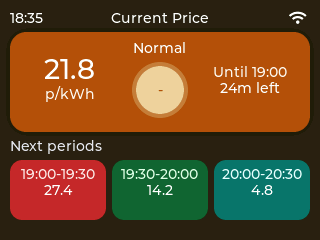
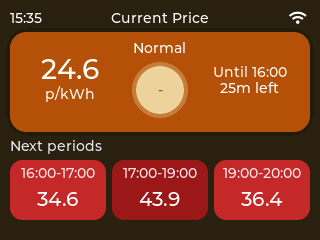
Refine primary preview cards and refresh docs screenshots

diff --git a/main/lv_font_montserrat_20_numeric.c b/main/lv_font_montserrat_20_numeric.c
@@ -1,7 +1,7 @@
 /*******************************************************************************
  * Size: 20 px
  * Bpp: 4
- * Opts: --no-compress --no-prefilter --bpp 4 --size 20 --font managed_components/lvgl__lvgl/scripts/built_in_font/Montserrat-Medium.ttf -r 0x25,0x30-0x39 --format lvgl -o main/lv_font_montserrat_20_numeric.c --force-fast-kern-format
+ * Opts: --no-compress --no-prefilter --bpp 4 --size 20 --font managed_components/lvgl__lvgl/scripts/built_in_font/Montserrat-Medium.ttf -r 0x25,0x2E,0x30-0x39 --format lvgl -o main/lv_font_montserrat_20_numeric.c --force-fast-kern-format
  ******************************************************************************/
 
 #include <lvgl.h>
@@ -34,6 +34,9 @@ static LV_ATTRIBUTE_LARGE_CONST const uint8_t glyph_bitmap[] = {
     0xf2, 0x0, 0x2f, 0x20, 0x6, 0xe0, 0x0, 0x2,
     0xf7, 0x0, 0x0, 0xbb, 0x23, 0xe6, 0x0, 0x0,
     0xcc, 0x0, 0x0, 0x1, 0xaf, 0xe8, 0x0,
+
+    /* U+002E "." */
+    0x7, 0xb2, 0xf, 0xf8, 0xa, 0xe4,
 
     /* U+0030 "0" */
     0x0, 0x1, 0x8d, 0xfe, 0xa3, 0x0, 0x0, 0x2,
@@ -169,33 +172,36 @@ static LV_ATTRIBUTE_LARGE_CONST const uint8_t glyph_bitmap[] = {
 static const lv_font_fmt_txt_glyph_dsc_t glyph_dsc[] = {
     {.bitmap_index = 0, .adv_w = 0, .box_w = 0, .box_h = 0, .ofs_x = 0, .ofs_y = 0} /* id = 0 reserved */,
     {.bitmap_index = 0, .adv_w = 270, .box_w = 17, .box_h = 14, .ofs_x = 0, .ofs_y = 0},
-    {.bitmap_index = 119, .adv_w = 213, .box_w = 13, .box_h = 14, .ofs_x = 0, .ofs_y = 0},
-    {.bitmap_index = 210, .adv_w = 118, .box_w = 6, .box_h = 14, .ofs_x = 0, .ofs_y = 0},
-    {.bitmap_index = 252, .adv_w = 184, .box_w = 11, .box_h = 14, .ofs_x = 0, .ofs_y = 0},
-    {.bitmap_index = 329, .adv_w = 183, .box_w = 11, .box_h = 14, .ofs_x = 0, .ofs_y = 0},
-    {.bitmap_index = 406, .adv_w = 214, .box_w = 14, .box_h = 14, .ofs_x = 0, .ofs_y = 0},
-    {.bitmap_index = 504, .adv_w = 184, .box_w = 11, .box_h = 14, .ofs_x = 0, .ofs_y = 0},
-    {.bitmap_index = 581, .adv_w = 197, .box_w = 12, .box_h = 14, .ofs_x = 0, .ofs_y = 0},
-    {.bitmap_index = 665, .adv_w = 191, .box_w = 12, .box_h = 14, .ofs_x = 0, .ofs_y = 0},
-    {.bitmap_index = 749, .adv_w = 206, .box_w = 12, .box_h = 14, .ofs_x = 0, .ofs_y = 0},
-    {.bitmap_index = 833, .adv_w = 197, .box_w = 12, .box_h = 14, .ofs_x = 0, .ofs_y = 0}
+    {.bitmap_index = 119, .adv_w = 73, .box_w = 4, .box_h = 3, .ofs_x = 0, .ofs_y = 0},
+    {.bitmap_index = 125, .adv_w = 213, .box_w = 13, .box_h = 14, .ofs_x = 0, .ofs_y = 0},
+    {.bitmap_index = 216, .adv_w = 118, .box_w = 6, .box_h = 14, .ofs_x = 0, .ofs_y = 0},
+    {.bitmap_index = 258, .adv_w = 184, .box_w = 11, .box_h = 14, .ofs_x = 0, .ofs_y = 0},
+    {.bitmap_index = 335, .adv_w = 183, .box_w = 11, .box_h = 14, .ofs_x = 0, .ofs_y = 0},
+    {.bitmap_index = 412, .adv_w = 214, .box_w = 14, .box_h = 14, .ofs_x = 0, .ofs_y = 0},
+    {.bitmap_index = 510, .adv_w = 184, .box_w = 11, .box_h = 14, .ofs_x = 0, .ofs_y = 0},
+    {.bitmap_index = 587, .adv_w = 197, .box_w = 12, .box_h = 14, .ofs_x = 0, .ofs_y = 0},
+    {.bitmap_index = 671, .adv_w = 191, .box_w = 12, .box_h = 14, .ofs_x = 0, .ofs_y = 0},
+    {.bitmap_index = 755, .adv_w = 206, .box_w = 12, .box_h = 14, .ofs_x = 0, .ofs_y = 0},
+    {.bitmap_index = 839, .adv_w = 197, .box_w = 12, .box_h = 14, .ofs_x = 0, .ofs_y = 0}
 };
 
 /*---------------------
  *  CHARACTER MAPPING
  *--------------------*/
 
-
+static const uint16_t unicode_list_0[] = {
+    0x0, 0x9
+};
 
 /*Collect the unicode lists and glyph_id offsets*/
 static const lv_font_fmt_txt_cmap_t cmaps[] =
 {
     {
-        .range_start = 37, .range_length = 1, .glyph_id_start = 1,
-        .unicode_list = NULL, .glyph_id_ofs_list = NULL, .list_length = 0, .type = LV_FONT_FMT_TXT_CMAP_FORMAT0_TINY
+        .range_start = 37, .range_length = 10, .glyph_id_start = 1,
+        .unicode_list = unicode_list_0, .glyph_id_ofs_list = NULL, .list_length = 2, .type = LV_FONT_FMT_TXT_CMAP_SPARSE_TINY
     },
     {
-        .range_start = 48, .range_length = 10, .glyph_id_start = 2,
+        .range_start = 48, .range_length = 10, .glyph_id_start = 3,
         .unicode_list = NULL, .glyph_id_ofs_list = NULL, .list_length = 0, .type = LV_FONT_FMT_TXT_CMAP_FORMAT0_TINY
     }
 };
@@ -208,32 +214,34 @@ static const lv_font_fmt_txt_cmap_t cmaps[] =
 /*Map glyph_ids to kern left classes*/
 static const uint8_t kern_left_class_mapping[] =
 {
-    0, 1, 2, 0, 3, 4, 5, 6,
-    7, 8, 9, 2
+    0, 1, 2, 3, 0, 4, 5, 6,
+    7, 8, 9, 10, 3
 };
 
 /*Map glyph_ids to kern right classes*/
 static const uint8_t kern_right_class_mapping[] =
 {
     0, 1, 2, 3, 4, 5, 6, 7,
-    2, 8, 9, 10
+    8, 3, 9, 10, 11
 };
 
 /*Kern values between classes*/
 static const int8_t kern_class_values[] =
 {
-    -39, 0, -6, 3, 3, 11, 6, -5,
-    6, 0, 0, 0, -1, -1, -3, 0,
-    0, -2, 0, 0, 3, -1, 0, 0,
-    0, -6, 0, -1, 0, 0, -3, 0,
-    0, -2, -2, 0, -3, -4, 0, 0,
-    -10, 0, -8, -1, -4, 0, -1, -15,
-    3, -2, -3, 0, 0, -2, -2, 0,
-    -2, -4, 0, 0, -6, 0, 0, 0,
-    0, 0, 0, -2, 0, 0, 1, -6,
-    3, 0, -3, -21, -6, 0, -6, 0,
-    -3, 0, 0, 0, 0, 0, 0, 0,
-    0, 0
+    -39, 10, 0, -6, 3, 3, 11, 6,
+    -5, 6, 0, -20, 0, -4, -4, 3,
+    3, -3, 0, -4, 3, 0, 0, -4,
+    0, -1, -1, -3, 0, 0, -2, 0,
+    0, 3, 3, -1, 0, 0, 0, -6,
+    0, -1, 0, 0, -3, 0, 0, 0,
+    -2, -2, 0, -3, -4, 0, 0, -10,
+    6, 0, -8, -1, -4, 0, -1, -15,
+    3, -2, -3, 0, 0, 0, -2, -2,
+    0, -2, -4, 0, 0, -6, 3, 0,
+    0, 0, 0, 0, 0, -2, 0, 0,
+    1, -17, -6, 3, 0, -3, -21, -6,
+    0, -6, 0, -3, 3, 0, 0, 0,
+    0, 0, 0, 0, 0, 0
 };
 
 
@@ -243,8 +251,8 @@ static const lv_font_fmt_txt_kern_classes_t kern_classes =
     .class_pair_values   = kern_class_values,
     .left_class_mapping  = kern_left_class_mapping,
     .right_class_mapping = kern_right_class_mapping,
-    .left_class_cnt      = 9,
-    .right_class_cnt     = 10,
+    .left_class_cnt      = 10,
+    .right_class_cnt     = 11,
 };
 
 /*--------------------

diff --git a/main/ui_primary.c b/main/ui_primary.c
@@ -284,11 +284,11 @@ static void set_primary_pulse_enabled(ui_router_view_t *view, bool enabled)
     lv_anim_start(&animation);
 }
 
-static void style_preview_card(lv_obj_t *card, lv_obj_t *time_label, lv_obj_t *band_label, lv_obj_t *price_label, tariff_band_t band, bool active)
+static void style_preview_card(lv_obj_t *card, lv_obj_t *time_label, lv_obj_t *band_label, tariff_band_t band, bool active)
 {
     primary_palette_t palette = {0};
 
-    if (card == NULL || time_label == NULL || band_label == NULL || price_label == NULL) {
+    if (card == NULL || time_label == NULL || band_label == NULL) {
         return;
     }
 
@@ -297,10 +297,9 @@ static void style_preview_card(lv_obj_t *card, lv_obj_t *time_label, lv_obj_t *b
     lv_obj_set_style_bg_color(card, active ? palette.hero_bg : lv_color_hex(0x1f2937), 0);
     lv_obj_set_style_text_color(time_label, active ? palette.hero_muted_text : lv_color_hex(0xcbd5e1), 0);
     lv_obj_set_style_text_color(band_label, active ? palette.hero_text : lv_color_white(), 0);
-    lv_obj_set_style_text_color(price_label, active ? palette.hero_muted_text : lv_color_hex(0x94a3b8), 0);
     lv_obj_set_style_text_align(time_label, LV_TEXT_ALIGN_CENTER, 0);
     lv_obj_set_style_text_align(band_label, LV_TEXT_ALIGN_CENTER, 0);
-    lv_obj_set_style_text_font(band_label, &lv_font_montserrat_14, 0);
+    lv_obj_set_style_text_font(band_label, &lv_font_montserrat_20_numeric, 0);
 }
 
 lv_color_t ui_primary_get_band_fill_color(tariff_band_t band)
@@ -327,12 +326,10 @@ static void update_primary_preview(ui_router_view_t *view, uint8_t index, const 
         snprintf(numeric_text, sizeof(numeric_text), "%.1f", (double)preview->representative_price);
         lv_label_set_text(view->primary_preview_time_labels[index], time_text);
         lv_label_set_text(view->primary_preview_band_labels[index], numeric_text);
-        lv_label_set_text(view->primary_preview_price_labels[index], "");
         style_preview_card(
             view->primary_preview_cards[index],
             view->primary_preview_time_labels[index],
             view->primary_preview_band_labels[index],
-            view->primary_preview_price_labels[index],
             preview->band,
             true
         );
@@ -341,12 +338,10 @@ static void update_primary_preview(ui_router_view_t *view, uint8_t index, const 
 
     lv_label_set_text(view->primary_preview_time_labels[index], "Later");
     lv_label_set_text(view->primary_preview_band_labels[index], "--");
-    lv_label_set_text(view->primary_preview_price_labels[index], "");
     style_preview_card(
         view->primary_preview_cards[index],
         view->primary_preview_time_labels[index],
         view->primary_preview_band_labels[index],
-        view->primary_preview_price_labels[index],
         TARIFF_BAND_NORMAL,
         false
     );
@@ -616,17 +611,27 @@ void ui_primary_create(lv_obj_t *tile, ui_router_view_t *view)
         lv_obj_set_style_radius(view->primary_preview_cards[index], 12, 0);
         lv_obj_set_style_border_width(view->primary_preview_cards[index], 0, 0);
         lv_obj_set_style_pad_all(view->primary_preview_cards[index], 5, 0);
-        lv_obj_set_style_pad_row(view->primary_preview_cards[index], 0, 0);
+        lv_obj_set_style_pad_row(view->primary_preview_cards[index], 3, 0);
         lv_obj_set_layout(view->primary_preview_cards[index], LV_LAYOUT_FLEX);
         lv_obj_set_flex_flow(view->primary_preview_cards[index], LV_FLEX_FLOW_COLUMN);
-        lv_obj_set_flex_align(view->primary_preview_cards[index], LV_FLEX_ALIGN_CENTER, LV_FLEX_ALIGN_CENTER, LV_FLEX_ALIGN_CENTER);
+        lv_obj_set_flex_align(view->primary_preview_cards[index], LV_FLEX_ALIGN_START, LV_FLEX_ALIGN_CENTER, LV_FLEX_ALIGN_CENTER);
         lv_obj_clear_flag(view->primary_preview_cards[index], LV_OBJ_FLAG_SCROLLABLE);
 
         view->primary_preview_time_labels[index] = lv_label_create(view->primary_preview_cards[index]);
         lv_obj_set_width(view->primary_preview_time_labels[index], lv_pct(100));
-        view->primary_preview_band_labels[index] = lv_label_create(view->primary_preview_cards[index]);
+
+        view->primary_preview_value_containers[index] = lv_obj_create(view->primary_preview_cards[index]);
+        lv_obj_set_width(view->primary_preview_value_containers[index], lv_pct(100));
+        lv_obj_set_flex_grow(view->primary_preview_value_containers[index], 1);
+        lv_obj_set_style_bg_opa(view->primary_preview_value_containers[index], LV_OPA_TRANSP, 0);
+        lv_obj_set_style_border_width(view->primary_preview_value_containers[index], 0, 0);
+        lv_obj_set_style_pad_all(view->primary_preview_value_containers[index], 0, 0);
+        lv_obj_set_layout(view->primary_preview_value_containers[index], LV_LAYOUT_FLEX);
+        lv_obj_set_flex_flow(view->primary_preview_value_containers[index], LV_FLEX_FLOW_COLUMN);
+        lv_obj_set_flex_align(view->primary_preview_value_containers[index], LV_FLEX_ALIGN_CENTER, LV_FLEX_ALIGN_CENTER, LV_FLEX_ALIGN_CENTER);
+        lv_obj_clear_flag(view->primary_preview_value_containers[index], LV_OBJ_FLAG_SCROLLABLE);
+
+        view->primary_preview_band_labels[index] = lv_label_create(view->primary_preview_value_containers[index]);
         lv_obj_set_width(view->primary_preview_band_labels[index], lv_pct(100));
-        view->primary_preview_price_labels[index] = lv_label_create(view->primary_preview_cards[index]);
-        lv_obj_set_width(view->primary_preview_price_labels[index], lv_pct(100));
     }
 }

diff --git a/main/ui_router_internal.h b/main/ui_router_internal.h
@@ -36,9 +36,9 @@ typedef struct {
     lv_obj_t *primary_change_label;
     lv_obj_t *primary_section_label;
     lv_obj_t *primary_preview_cards[APP_TARIFF_PREVIEW_MAX];
+    lv_obj_t *primary_preview_value_containers[APP_TARIFF_PREVIEW_MAX];
     lv_obj_t *primary_preview_time_labels[APP_TARIFF_PREVIEW_MAX];
     lv_obj_t *primary_preview_band_labels[APP_TARIFF_PREVIEW_MAX];
-    lv_obj_t *primary_preview_price_labels[APP_TARIFF_PREVIEW_MAX];
     lv_obj_t *detail_status_label;
     lv_obj_t *detail_updated_label;
     lv_obj_t *detail_top_bar;

diff --git a/tools/generate_assets.py b/tools/generate_assets.py
@@ -18,7 +18,7 @@ FONT_JOBS = (
     {
         "output": ROOT / "main" / "lv_font_montserrat_20_numeric.c",
         "size": 20,
-        "ranges": "0x25,0x30-0x39",
+        "ranges": "0x25,0x2E,0x30-0x39",
     },
     {
         "output": ROOT / "main" / "lv_font_montserrat_28_numeric.c",
